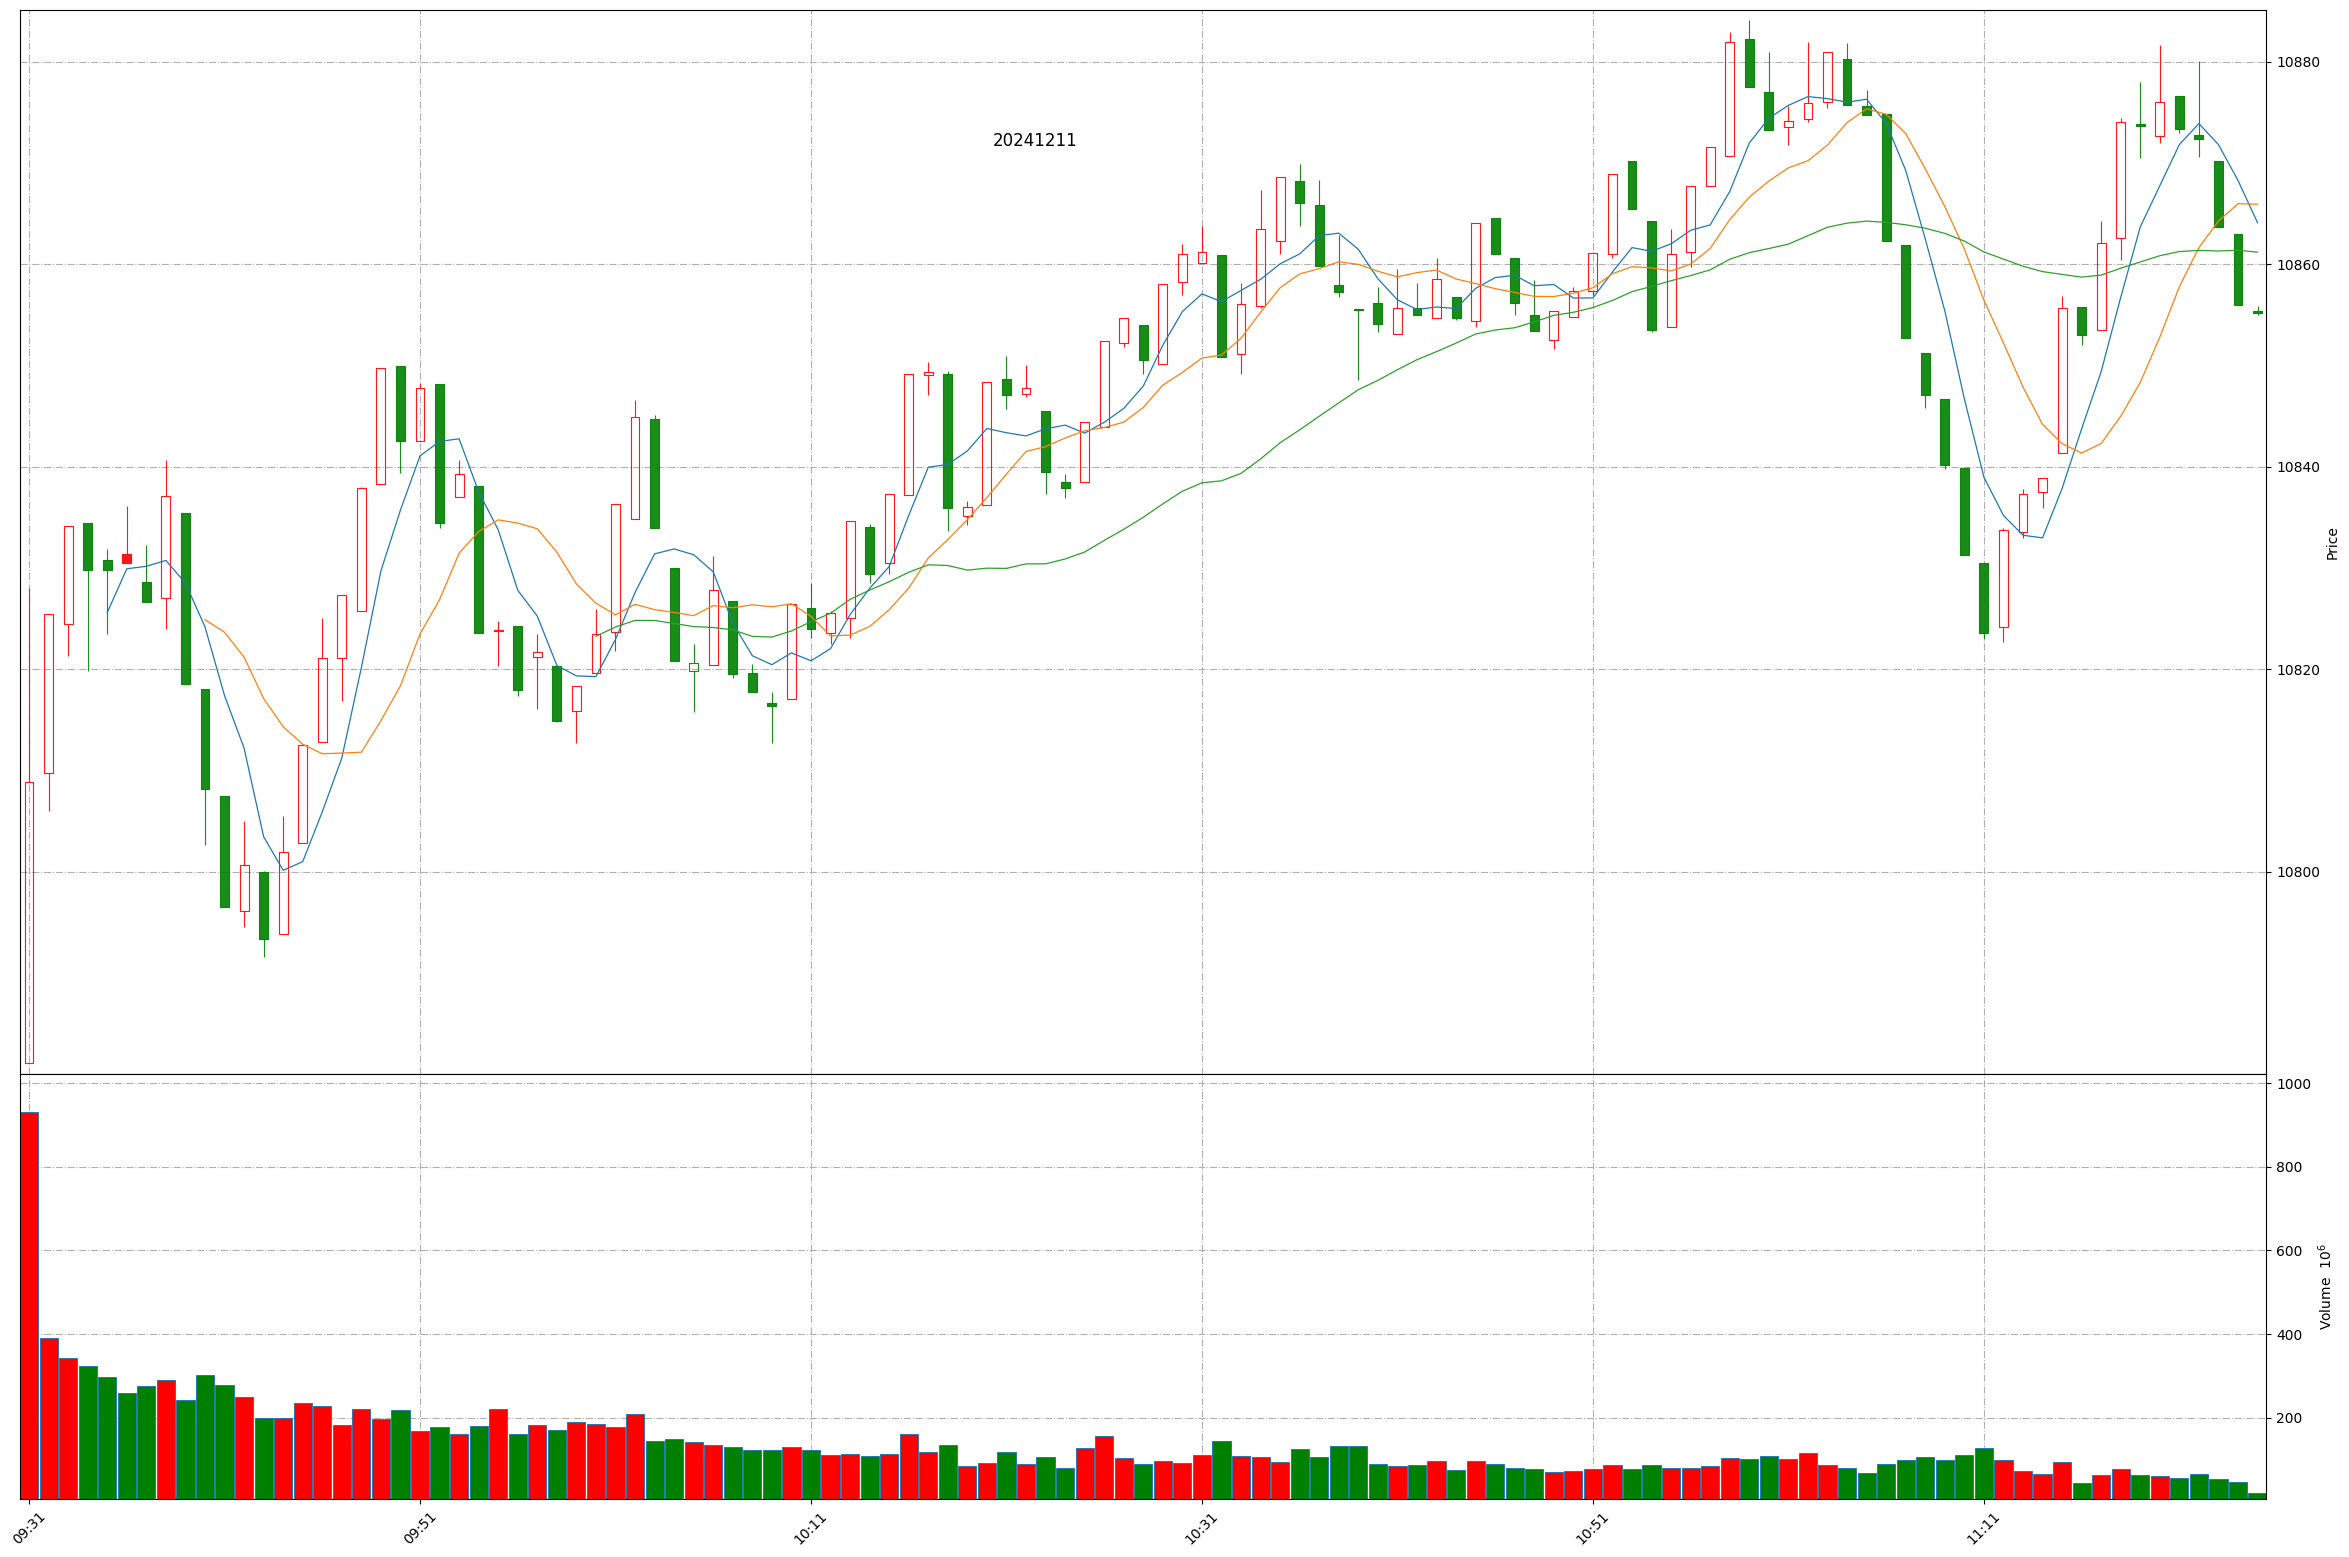
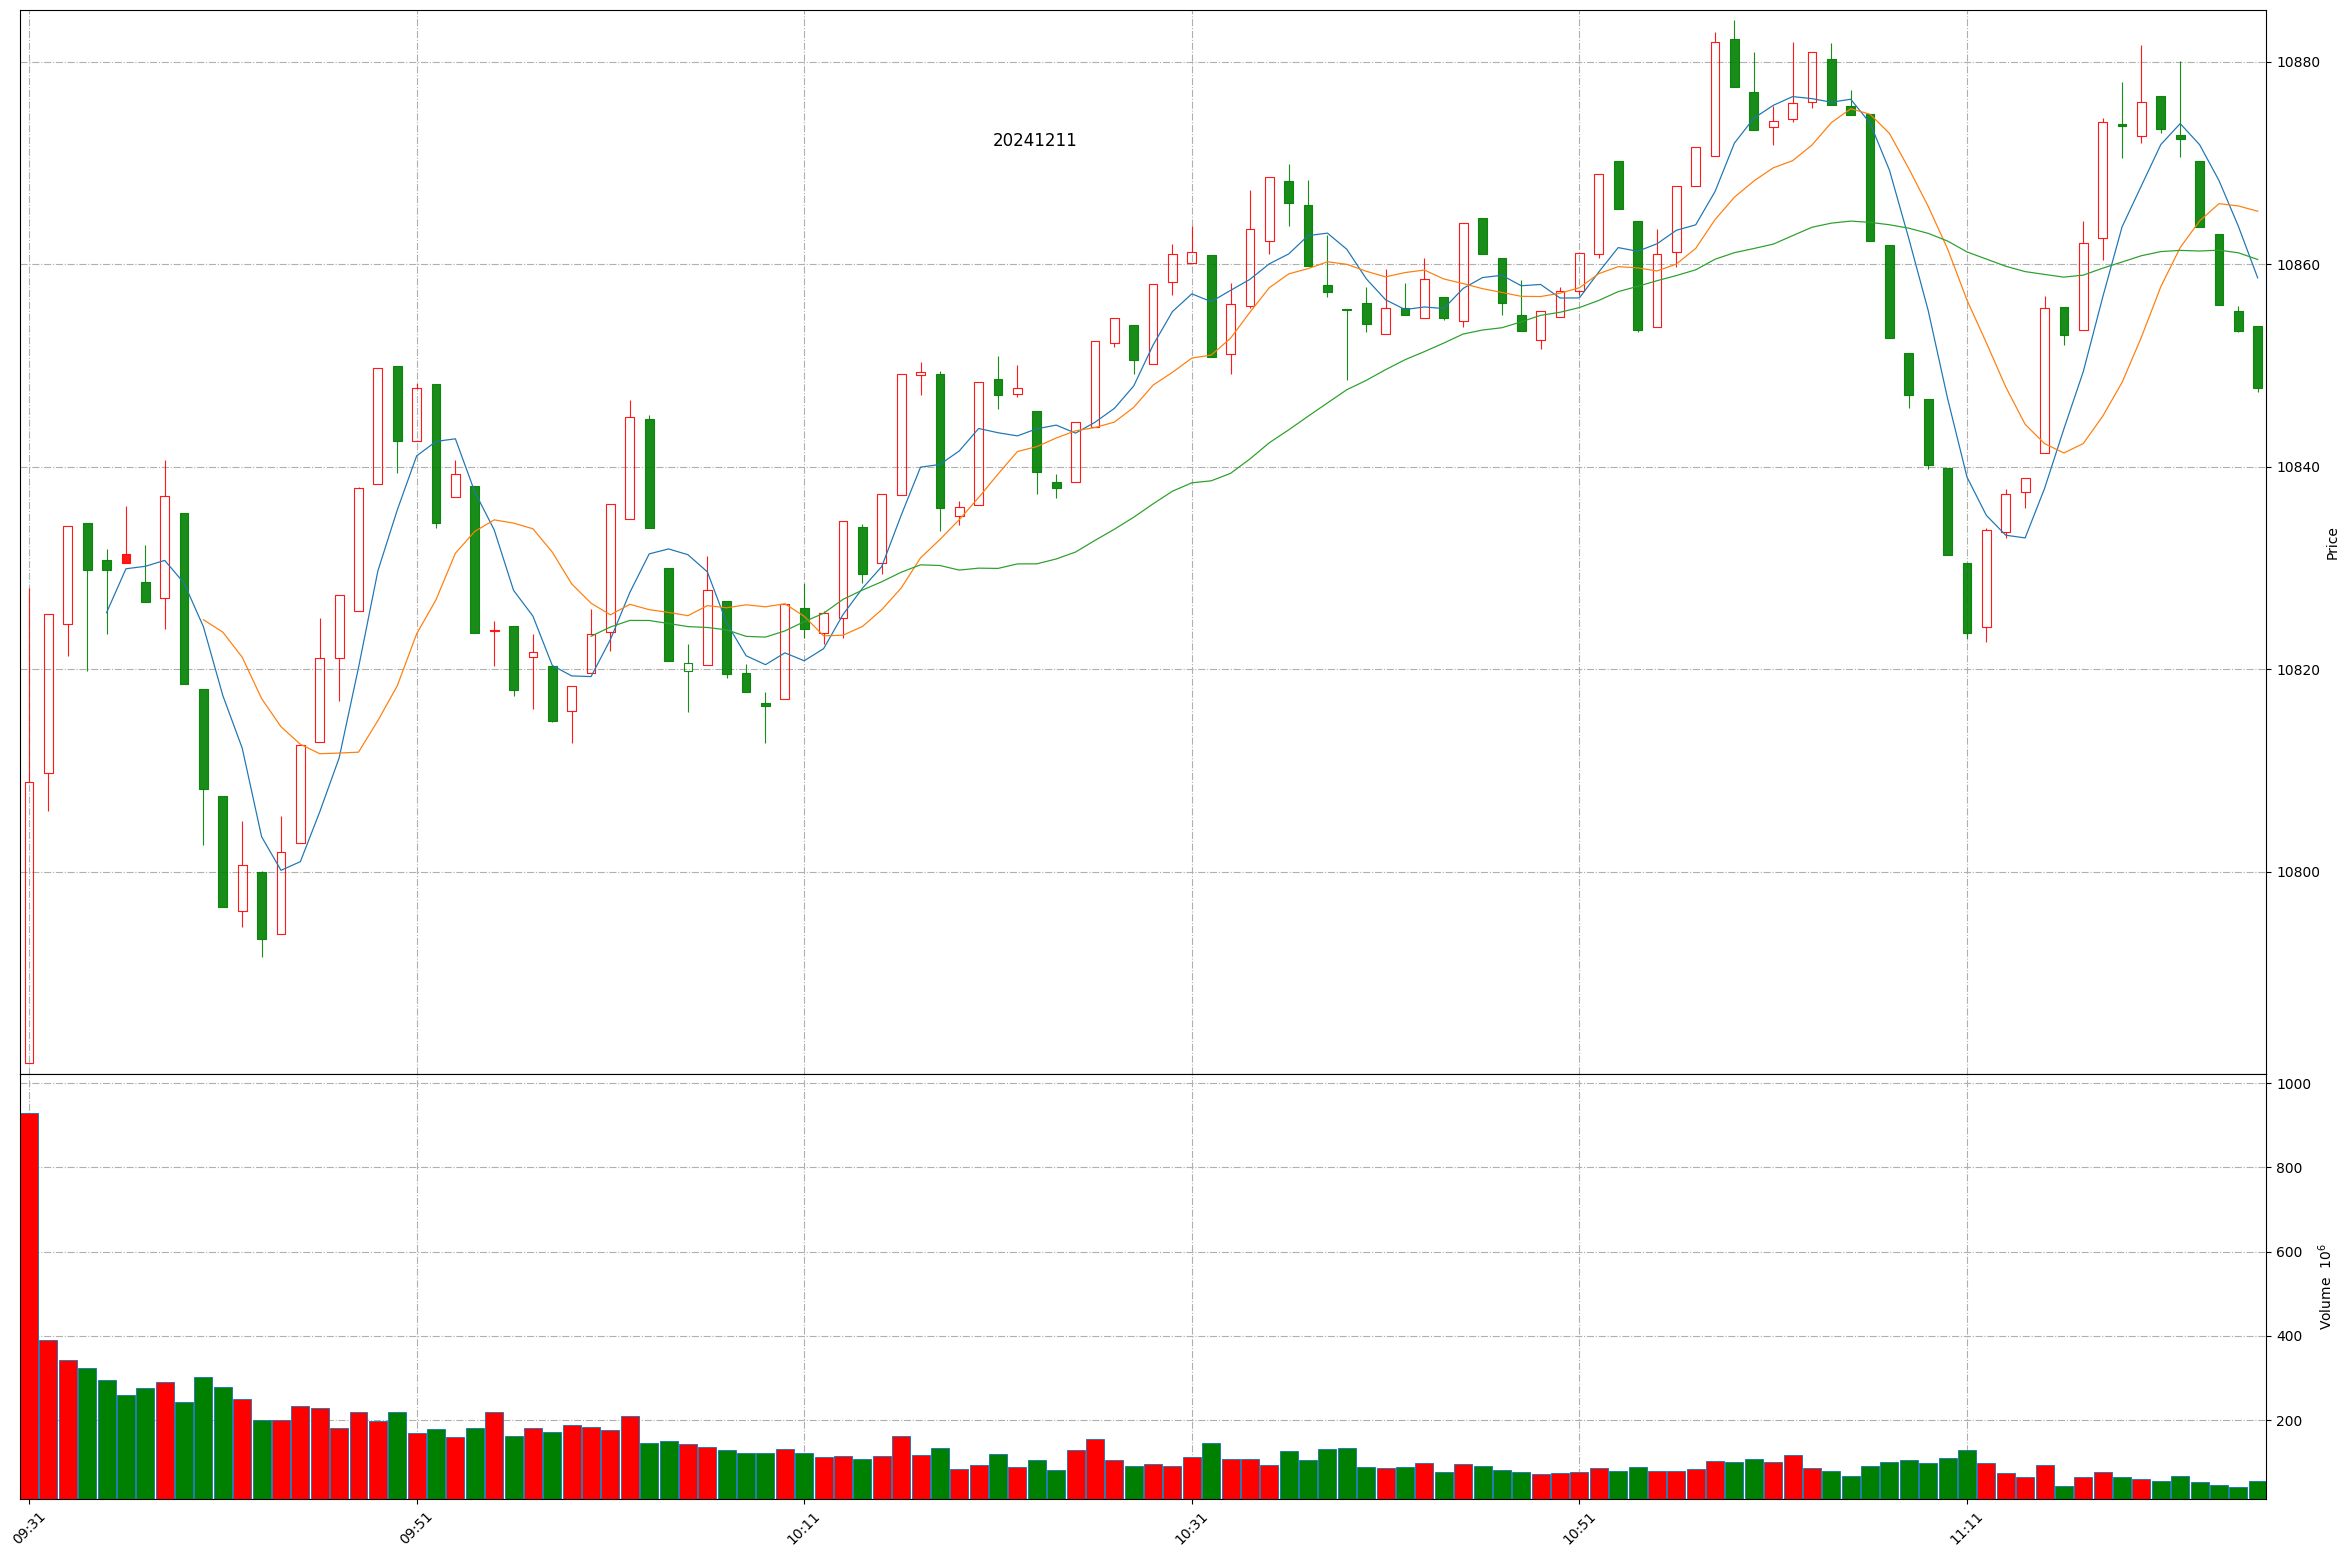
Github action update at 2024-12-11 11:26:06.

diff --git a/README.md b/README.md
@@ -1,11 +1,11 @@
 
 # Daily-A-share-market-quotes 每日 A 股指数（5min 更新）- 20241211
 
-### 上证指数 20241211 11:24
+### 上证指数 20241211 11:26
 ![](./fig/2024/12/20241211-sh000001.png)
 
-### 深证成指 20241211 11:24
+### 深证成指 20241211 11:26
 ![](./fig/2024/12/20241211-sz399001.png)
 
-### 北证50 20241211 11:24
+### 北证50 20241211 11:26
 ![](./fig/2024/12/20241211-bj899050.png)
